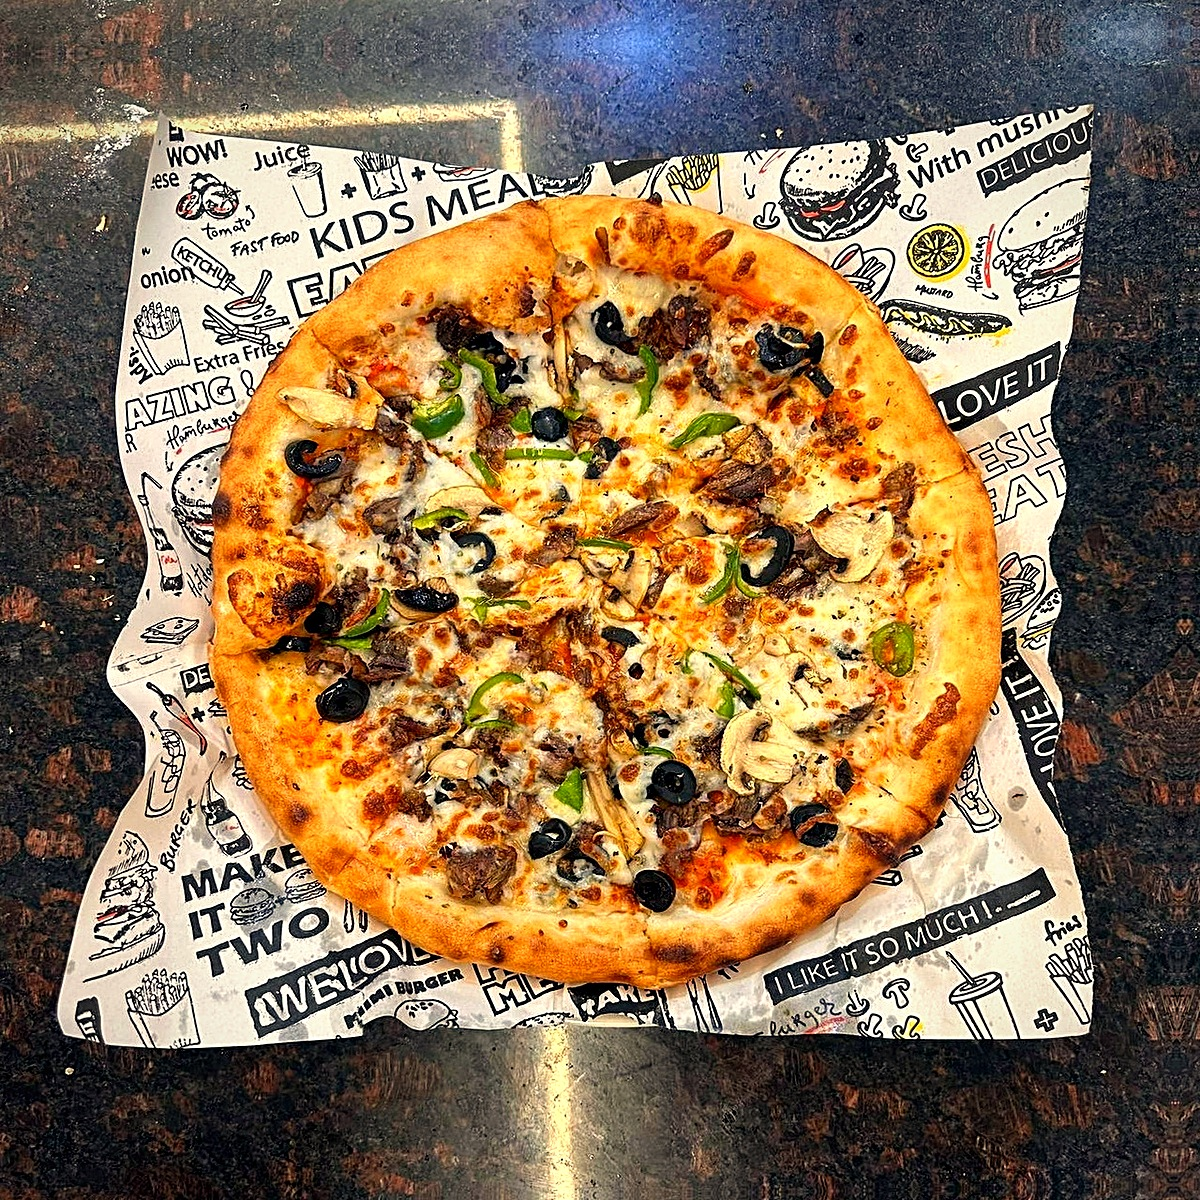
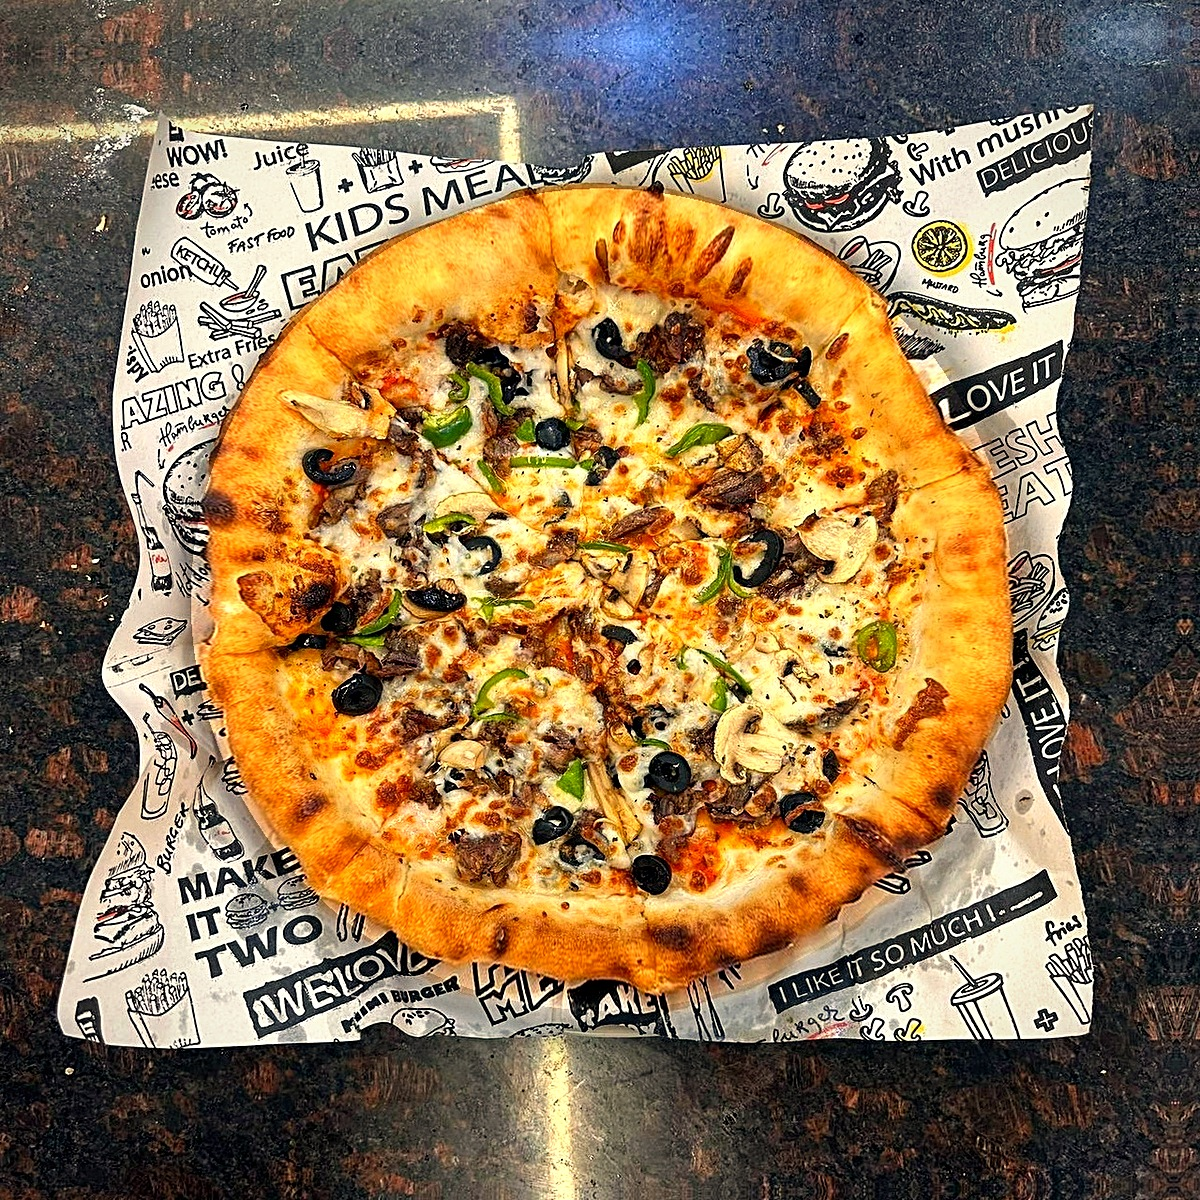
Give the real pizza photos a puffier crust
puffy.py widens the crust ring (toppings squeezed slightly to make
room) and adds a top-left highlight, an inner crease and a soft drop
shadow on the paper so the rim reads as raised, Neapolitan style.

Claude-Session: https://claude.ai/code/session_01MUKyuqRDXBQd9pGTQn3E2V

diff --git a/src/menu/app-photos/real/puffy.py b/src/menu/app-photos/real/puffy.py
@@ -1,0 +1,41 @@
+import sys
+import cv2
+import numpy as np
+src, out = sys.argv[1], sys.argv[2]
+IN_CRUST, OUT_IN, OUT_OUT = float(sys.argv[3]), float(sys.argv[4]), float(sys.argv[5])
+im = cv2.imread(src)
+h, w = im.shape[:2]
+hsv = cv2.cvtColor(im, cv2.COLOR_BGR2HSV)
+m = cv2.inRange(hsv, (6, 70, 150), (28, 255, 255))
+m = cv2.morphologyEx(m, cv2.MORPH_OPEN, cv2.getStructuringElement(cv2.MORPH_ELLIPSE, (9, 9)))
+m = cv2.morphologyEx(m, cv2.MORPH_CLOSE, cv2.getStructuringElement(cv2.MORPH_ELLIPSE, (61, 61)))
+cnts, _ = cv2.findContours(m, cv2.RETR_EXTERNAL, cv2.CHAIN_APPROX_NONE)
+inside = [k for k in cnts if cv2.pointPolygonTest(k, (w / 2, h / 2), False) >= 0]
+(cx, cy), R = cv2.minEnclosingCircle(cv2.convexHull(max(inside or cnts, key=cv2.contourArea)))
+R *= 0.985
+print('centre', round(cx), round(cy), 'R', round(R))
+
+yy, xx = np.mgrid[0:h, 0:w].astype(np.float32)
+dx, dy = xx - cx, yy - cy
+p = np.hypot(dx, dy) / R  # output radius in pizza radii
+# piecewise-linear inverse map (output radius -> input radius):
+# toppings 0..IN_CRUST squeezed into 0..OUT_IN, crust IN_CRUST..1 widened to OUT_IN..OUT_OUT,
+# then the paper eases back to unchanged by 1.4
+src_r = np.interp(p, [0, OUT_IN, OUT_OUT, 1.4, 10], [0, IN_CRUST, 1.0, 1.4, 10])
+s = np.where(p > 0, src_r / np.maximum(p, 1e-6), 1).astype(np.float32)
+res = cv2.remap(im, (cx + dx * s).astype(np.float32), (cy + dy * s).astype(np.float32),
+                cv2.INTER_LANCZOS4, borderMode=cv2.BORDER_REFLECT).astype(np.float32)
+
+# raised-rim shading in output coordinates
+g = lambda x, mu, sd: np.exp(-0.5 * ((x - mu) / sd) ** 2)
+mid = (OUT_IN + OUT_OUT) / 2
+width = OUT_OUT - OUT_IN
+# light from the top-left: highlight stronger on that side of the rim
+light = 0.55 + 0.45 * np.clip(-(dx + dy) / (np.hypot(dx, dy) * 1.4142 + 1e-6), 0, 1)
+gain = 1 + 0.10 * g(p, mid - width * 0.1, width * 0.28) * light
+gain -= 0.12 * g(p, OUT_IN - width * 0.05, width * 0.18)   # crease where rim meets toppings
+# drop shadow on the paper, offset towards the bottom-right
+ps = np.hypot(dx - R * 0.025, dy - R * 0.03) / R
+gain -= 0.30 * g(ps, OUT_OUT + width * 0.08, width * 0.22) * (p > OUT_OUT - width * 0.05)
+res = np.clip(res * gain[..., None], 0, 255).astype(np.uint8)
+cv2.imwrite(out, res, [cv2.IMWRITE_JPEG_QUALITY, 95])
